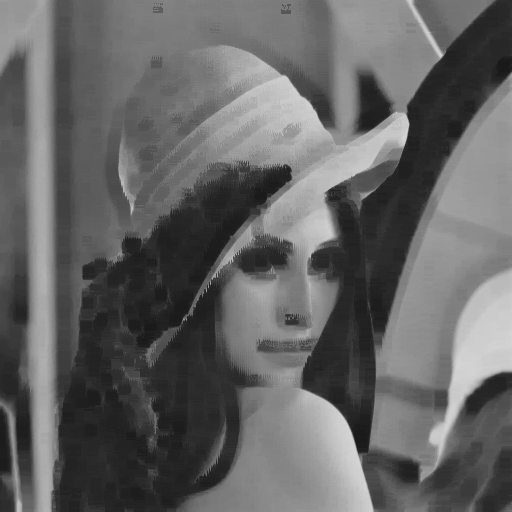
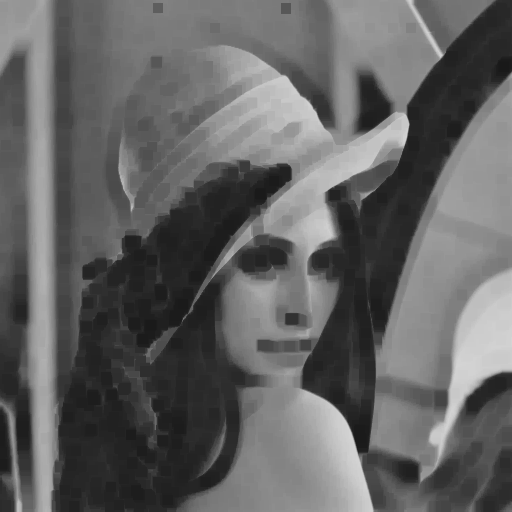
fix_png_bug

diff --git a/lab2-pthread/pthread-erode.cpp b/lab2-pthread/pthread-erode.cpp
@@ -3,55 +3,57 @@
 #include "../common/opencv-bench.h"
 
 void erode_pthread_workload(Mat& src, Mat& dst, Mat& kernel, int beg_r,
-                            int end_r) {
-  for (int base_row = beg_r; base_row < end_r; ++base_row) {
-    for (int base_col = 0; base_col < src.cols; ++base_col) {
-      int len_row = std::min(kernel.rows, src.rows - base_row);
-      int len_col = std::min(kernel.cols, src.cols - base_col);
-      uint8_t pixel = 255;
-      auto anchor = src.data + base_row * src.cols + base_col;
+														int end_r) {
+	for (int base_row = beg_r; base_row < end_r; ++base_row) {
+		for (int base_col = 0; base_col < src.cols; ++base_col) {
+			int len_row = std::min(kernel.rows, src.rows - base_row);
+			int len_col = std::min(kernel.cols, src.cols - base_col);
+			uint8_t pixel = 255;
+			auto anchor = src.data + base_row * src.cols + base_col;
 #pragma unroll(10)
-      for (int ki = 0; ki < len_row; ++ki) {
+			for (int ki = 0; ki < len_row; ++ki) {
 #pragma unroll(10)
-        for (int kj = 0; kj < len_col; ++kj) {
-          if (kernel.data[ki * base_col + kj]) {
-            pixel = std::min(pixel, anchor[ki * src.cols + kj]);
-          }
-        }
-      }
-      dst.data[base_row * src.cols + base_col] = pixel;
-    }
-  }
+				for (int kj = 0; kj < len_col; ++kj) {
+					if (kernel.data[ki * kernel.cols + kj]) {
+						pixel = std::min(pixel, anchor[ki * src.cols + kj]);
+					}
+				}
+			}
+			dst.data[base_row * src.cols + base_col] = pixel;
+		}
+	}
 }
 
 void erode_pthread(Mat& src, Mat& dst, Mat& kernel) {
-  std::vector<std::thread> threads;
-  int thread_num = std::thread::hardware_concurrency();
-  // int thread_num = 4;
-  // split by rows
-  int size = src.rows;
-  
-  for (int t_id = 0; t_id < thread_num; ++t_id) {
-    size_t beg = (t_id * size) / thread_num;
-    size_t end = (t_id + 1) * size / thread_num;
-    if (t_id != thread_num - 1) {
-      threads.emplace_back(
-          [](Mat* src, Mat* dst, Mat* kernel, size_t beg, size_t end) { erode_pthread_workload(*src, *dst, *kernel, beg, end); }, 
-            &src, &dst, &kernel, beg, end
-          );
-    } else {
-      // the last thread is the main thread itself
-      erode_pthread_workload(src, dst, kernel, beg, end);
-    }
-  }
-  for (auto& th : threads) {
-    th.join();
-  }
+	std::vector<std::thread> threads;
+	int thread_num = std::thread::hardware_concurrency();
+	// int thread_num = 4;
+	// split by rows
+	int size = src.rows;
+	auto wrapper = [](Mat* src, Mat* dst, Mat* kernel, size_t beg, size_t end) {
+		erode_pthread_workload(*src, *dst, *kernel, beg, end);
+	};
+
+	for (int t_id = 0; t_id < thread_num; ++t_id) {
+		size_t beg = (t_id * size) / thread_num;
+		size_t end = (t_id + 1) * size / thread_num;
+		if (t_id != thread_num - 1) {
+			threads.emplace_back(wrapper, &src, &dst, &kernel, beg, end);
+		} else {
+			// the last thread is the main thread itself
+			erode_pthread_workload(src, dst, kernel, beg, end);
+		}
+	}
+	for (auto& th : threads) {
+		th.join();
+	}
 }
 
-void erode_ref(Mat& src, Mat& dst, Mat& kernel) { erode(src, dst, kernel); }
+void erode_ref(Mat& src, Mat& dst, Mat& kernel) {
+	erode(src, dst, kernel);
+}
 
 int main(int argc, char* argv[]) {
-  EXEC_CV(erode_pthread);
-  return 0;
+	EXEC_CV(erode_pthread);
+	return 0;
 }

diff --git a/lab3-openmp/openmp-erode.cpp b/lab3-openmp/openmp-erode.cpp
@@ -14,7 +14,7 @@ void erode_openmp(Mat& src, Mat& dst, Mat& kernel) {
       for (int ki = 0; ki < len_row; ++ki) {
 #pragma unroll(10)
         for (int kj = 0; kj < len_col; ++kj) {
-          if (kernel.data[ki * base_col + kj]) {
+          if (kernel.data[ki * kernel.cols + kj]) {
             pixel = std::min(pixel, anchor[ki * src.cols + kj]);
           }
         }
